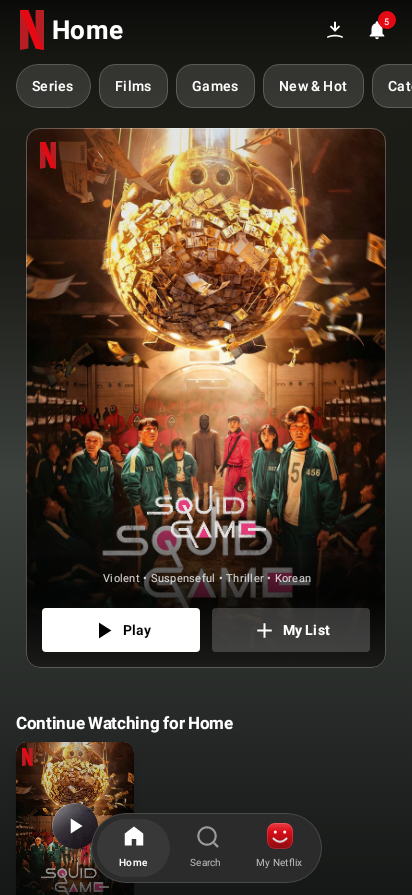
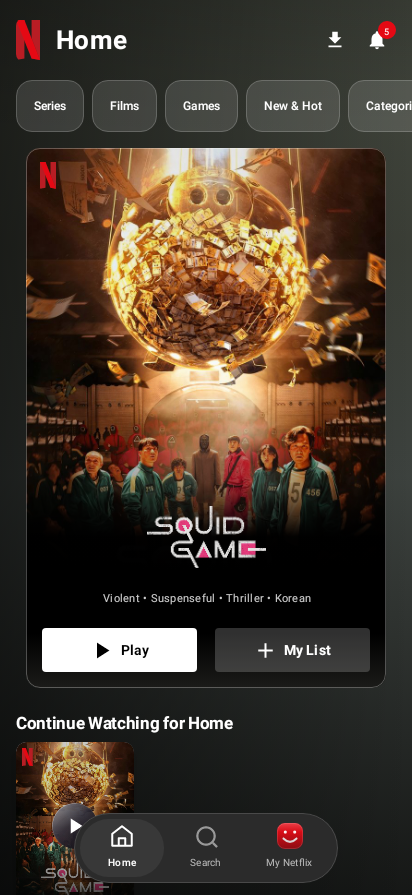
Capture refined Home styling and mask embedded poster titles

diff --git a/app/src/main/java/com/example/ui/components/HeroBanner.kt b/app/src/main/java/com/example/ui/components/HeroBanner.kt
@@ -62,8 +62,8 @@ fun HeroBanner(
             )
             Box(Modifier.fillMaxSize().background(Brush.verticalGradient(
                 0f to Color.Black.copy(alpha = .10f), .45f to Color.Transparent,
-                .68f to Color.Black.copy(alpha = .25f), .80f to Color.Black.copy(alpha = .90f),
-                .90f to Color.Black.copy(alpha = .96f),
+                .62f to Color.Black.copy(alpha = .35f), .72f to Color.Black.copy(alpha = .99f),
+                .78f to Color.Black, .90f to Color.Black,
                 1f to Color(0xFF1B1B19)
             )))
             if (media.isOriginal) NetflixNLogo(size = 27.dp, modifier = Modifier.padding(14.dp).align(Alignment.TopStart))

diff --git a/docs/design-preview/README.md b/docs/design-preview/README.md
@@ -1,6 +1,6 @@
 # Mobile design previews
 
-Captured from the actual Compose screens using Robolectric native Android 34 graphics (412 × 895). Production artwork comes from the current TMDB trending catalog, filtered for the active profile. These deterministic tests use TMDB poster/title-logo fixtures and extract the footer/background colors from the actual image. The image fixtures are test resources and are excluded from the APK. These previews do not establish emulator startup or physical-device performance.
+Captured from the actual Compose screens using Robolectric native Android 34 graphics (412 × 895). Production artwork comes from the current TMDB trending catalog, filtered for the active profile. These deterministic tests use TMDB poster/title-logo fixtures and extract the footer/background colors from the actual image. The image fixtures are test resources and are excluded from the APK. These previews do not establish emulator startup or physical-device performance. Home uses 52 dp translucent category chips with 16 dp corners, a muted poster-derived ambient color, reference-aligned header/hero spacing, a darker hero footer and separated actions, and an outlined Home icon in the wider bottom capsule. The selected trending artwork changes independently of the reference image; the reference poster is not bundled into production.
 
 ![Profile picker](profile-picker.png)
 ![Home](home.png)
